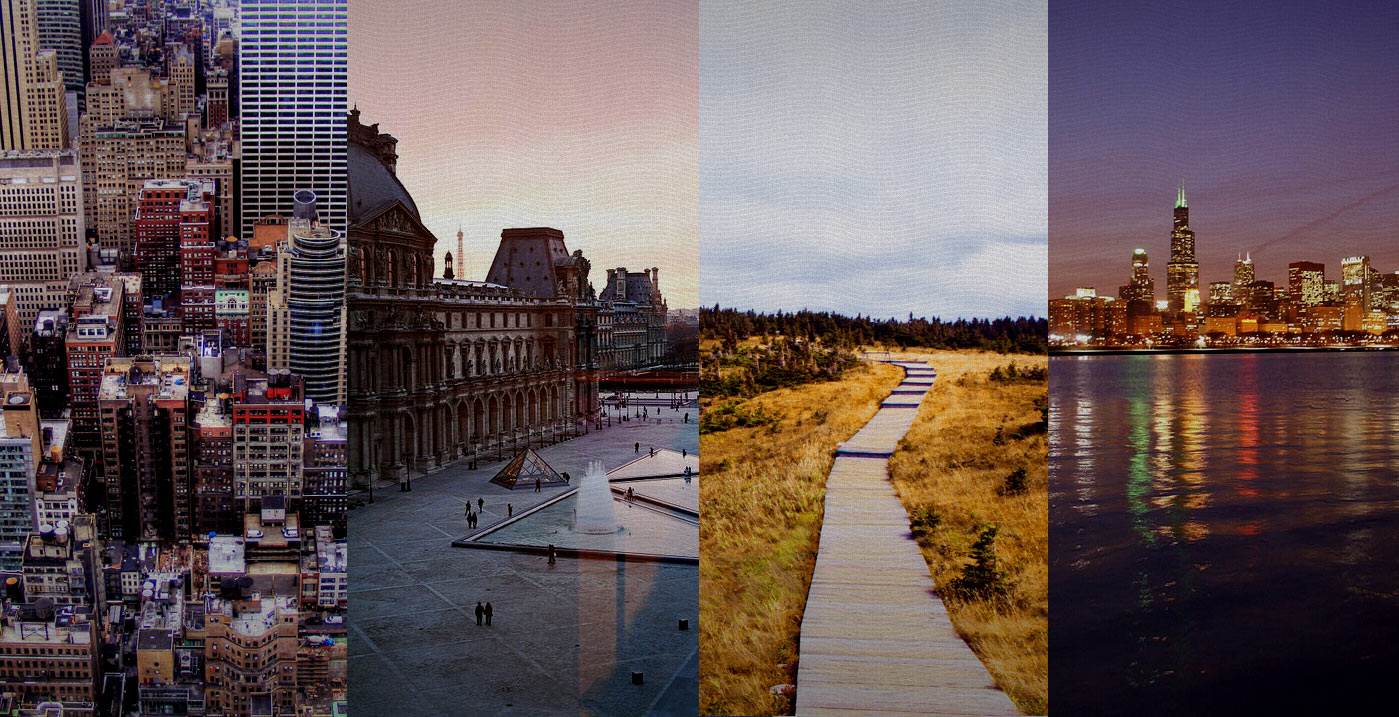
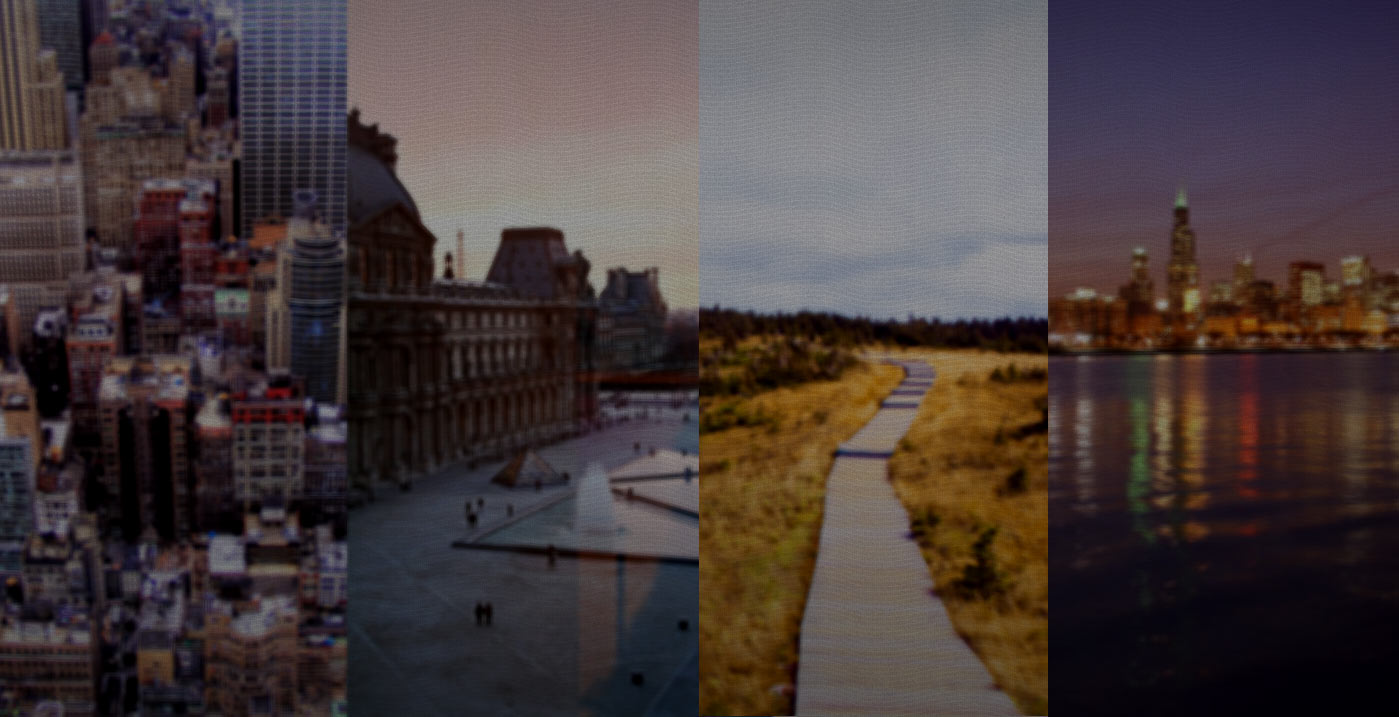
changes to homepage. looks much nicer now

diff --git a/public/lib/bootstrap.css b/public/lib/bootstrap.css
@@ -2874,7 +2874,7 @@ header .pills {
   background-image: -o-linear-gradient(top, #0230a1, #011547);
   background-image: linear-gradient(top, #0230a1, #011547);
   filter: progid:DXImageTransform.Microsoft.gradient(startColorstr='#0230a1', endColorstr='#011547', GradientType=0);
-  color: #abc4f3;
+  color: #cde6ff;
   text-shadow: 0 1px 0 #000027;
   border: solid 1px #233c6b;
   border-bottom: solid 1px #000938;
@@ -2916,8 +2916,7 @@ header .pills {
   color: #fff;
   line-height: 140%;
   margin: 0px auto 160px;
-  text-shadow: 0 1px 0 #fff;
-  font: normal 400 1.8em/1.3em Georgia, serif;
+  font: normal 400 1.8em/1.3em 'Copse', Georgia, serif;
 }
 .subtitle a {
   color: #fff;
@@ -2929,20 +2928,30 @@ header .pills {
   color: #ffff99;
 }
 .homebox {
-  background: rgba(255, 199, 192, 0.86) url(images/noise.png);
-  -webkit-border-radius: 2px;
-  -moz-border-radius: 2px;
-  border-radius: 2px;
+  background: rgba(255, 226, 223, 0.93) url(images/noise.png);
+  /*-webkit-border-top-left-radius: 5px;
+	-webkit-border-top-right-radius: 5px;
+	-moz-border-radius-topleft: 5px;
+	-moz-border-radius-topright: 5px;
+	border-top-left-radius: 5px;
+	border-top-right-radius: 5px;*/
+
   -webkit-box-shadow: 0 -2px 1px rgba(0, 0, 0, 0.2);
   -moz-box-shadow: 0 -2px 1px rgba(0, 0, 0, 0.2);
   box-shadow: 0 -2px 1px rgba(0, 0, 0, 0.2);
+  -webkit-box-sizing: border-box;
+  -moz-box-sizing: border-box;
+  box-sizing: border-box;
+  position: relative;
   color: #fff;
   margin: 0 auto;
-  position: fixed;
-  bottom: 20%;
-  left: 0;
-  right: 0;
-  padding: 40px 20px 20px;
+  border-bottom: 1px solid #eeb6af;
+}
+.homebox .row {
+  margin-bottom: 0;
+}
+.homebox .row > li {
+  padding: 40px 30px 30px 50px;
   -webkit-box-sizing: border-box;
   -moz-box-sizing: border-box;
   box-sizing: border-box;
@@ -2956,6 +2965,7 @@ header .pills {
   bottom: 0;
   left: 50%;
   margin: 0 0 0 -1px;
+  display: none;
 }
 .section {
   display: none;
@@ -2970,11 +2980,49 @@ header .pills {
 }
 .whitebox {
   background: #fff;
+  margin: 0 auto 0px;
   -webkit-box-sizing: border-box;
   -moz-box-sizing: border-box;
   box-sizing: border-box;
-  margin: 50px auto 50px;
-  padding: 20px;
+  padding: 40px 70px 40px 60px;
+  -webkit-box-shadow: 0 1px 3px rgba(0, 0, 0, 0.2);
+  -moz-box-shadow: 0 1px 3px rgba(0, 0, 0, 0.2);
+  box-shadow: 0 1px 3px rgba(0, 0, 0, 0.2);
+  z-index: 2;
+  position: relative;
+  width: 960px;
+}
+.whitebox h2 {
+  color: #1a57c9;
+  font: 600 2em/2.2em 'FamiliarProBold', Helvetica, Arial, sans-serif;
+  margin-bottom: 10px;
+}
+.whitebox p {
+  font: 400 1.4em/150% Helvetica, Arial, sans-serif;
+  margin-bottom: 10px;
+  color: #999;
+}
+.infobox {
+  background: #ddd;
+  -webkit-box-sizing: border-box;
+  -moz-box-sizing: border-box;
+  box-sizing: border-box;
+  margin: 0 auto 30px;
+  padding: 40px 40px 40px 60px;
+  font: normal 400 1.3em/140% 'Copse', Georgia, serif;
+  color: #285d28;
+}
+.infobox .iconbox {
+  text-align: center;
+  padding-top: 10px;
+}
+.infobox .iconbox .icon {
+  font-size: 2em;
+  color: #46a546;
+}
+.infobox .btn {
+  font-family: 'FamiliarProBold', Helvetica, Arial, sans-serif;
+  color: #444444;
 }
 #main {
   max-width: 960px;
@@ -2998,6 +3046,15 @@ header .pills {
 }
 .margin-top {
   margin-top: 20px;
+}
+footer.credit {
+  border-top: 0 none;
+  color: #999;
+  margin-bottom: 20px;
+  text-align: center;
+}
+footer.credit a {
+  color: #70b6ff;
 }
 .back {
   float: left;

diff --git a/public/lib/_structure.less b/public/lib/_structure.less
@@ -1,6 +1,6 @@
 @bl: #011A49;
 @text: Helvetica, Arial, sans-serif;
-@serif: Georgia, serif;
+@serif: 'Copse', Georgia, serif;
 
 .siz() {
   -webkit-box-sizing: border-box;
@@ -241,7 +241,7 @@ header {
 				outline: 0;
 				position: relative;
 				#gradient > .vertical(#0230a1, #011547);
-				color: @bl + #aaa;
+				color: @bl + #ccc;
 				text-shadow: 0 1px 0 @bl - #222;
 				border: solid 1px @bl + #222;
 				border-bottom: solid 1px @bl - #111;
@@ -291,7 +291,7 @@ header {
 	color: #fff;
 	line-height: 140%;
 	margin: 0px auto 160px;
-	text-shadow: 0 1px 0 #fff;
+	//text-shadow: 0 1px 0 #fff;
 	font: normal 400 1.8em/1.3em @serif;
 
 
@@ -303,18 +303,31 @@ header {
 
 .homebox {
 	@bg: #ffc7c0;
-	background: fade(@bg, 86%) url(images/noise.png);
-	.border-radius(2px);
-	.box-shadow(0 -2px 1px rgba(0,0,0,0.2));
+	background: fade(lighten(@bg, 6%), 93%) url(images/noise.png);
 
+	/*-webkit-border-top-left-radius: 5px;
+	-webkit-border-top-right-radius: 5px;
+	-moz-border-radius-topleft: 5px;
+	-moz-border-radius-topright: 5px;
+	border-top-left-radius: 5px;
+	border-top-right-radius: 5px;*/
+
+	.box-shadow(0 -2px 1px rgba(0,0,0,0.2));
+	.siz();
+
+	position: relative;
 	color: #fff;
 	margin: 0 auto;
-	position: fixed;
-	bottom: 20%;
-	left: 0;
-	right: 0;
-	padding: 40px 20px 20px;
-	.siz();
+border-bottom: 1px solid #ffc7c0 - #111;
+
+	.row {
+		margin-bottom: 0;
+		&>li {
+			padding: 40px 30px 30px 50px;
+			.siz();
+		}
+	}
+
 
 	hr.vertical {
 		width: 0;
@@ -325,6 +338,7 @@ header {
 		bottom: 0;
 		left: 50%;
 		margin: 0 0 0 -1px;
+		display: none;
 	}
 }
 
@@ -342,9 +356,49 @@ header {
 
 .whitebox {
 	background: #fff;
+	margin: 0 auto 0px;
 	.siz();
-	margin: 50px auto 50px;
-	padding: 20px;
+	padding: 40px 70px 40px 60px;
+
+	.box-shadow(0 1px 3px rgba(0,0,0,0.2));
+	z-index: 2;
+	position: relative;
+	width: 960px;
+
+	h2 {
+		color: lighten(saturate(@bl, -20%), 30%);
+		font: 600 2em/2.2em 'FamiliarProBold', Helvetica, Arial, sans-serif;
+		margin-bottom: 10px;
+
+	}
+
+	p {
+		font: 400 1.4em/150% @text;
+		margin-bottom: 10px;
+		color: #999;
+	}
+}
+
+.infobox {
+	background: #ddd;
+	.siz();
+	margin: 0 auto 30px;
+	padding: 40px 40px 40px 60px;
+
+	font: normal 400 1.3em/140% @serif;
+	color: darken(saturate(@green, 0%), 20%);
+
+	.iconbox {
+		text-align: center;
+		padding-top: 10px;
+
+		.icon {
+			font-size: 2em;
+			color: @green;
+		}
+	}
+
+	.btn { font-family: 'FamiliarProBold', Helvetica, Arial, sans-serif; color: #444 }
 }
 
 
@@ -359,3 +413,14 @@ header {
 .btn.right { float: right; }
 .centered { text-align: center; }
 .margin-top { margin-top: 20px; }
+
+
+footer.credit {
+	border-top: 0 none;
+	color: #999;
+	margin-bottom: 20px;
+	text-align: center;
+
+	a { color: lighten(@linkColor, 30%)}
+
+}

diff --git a/public/js/script.js b/public/js/script.js
@@ -25,7 +25,7 @@ $(function() {
   }*/
 
   // show background on homepage:
-  if ($('body').hasClass('bgimage')) $.backstretch("/lib/images/bg3.jpg", {speed: 500});
+  if ($('body').hasClass('bgimage')) $.backstretch("/lib/images/bg3.jpg", {speed: 500, centeredY: false});
 
 
   // sticky nav bar when scroll past
